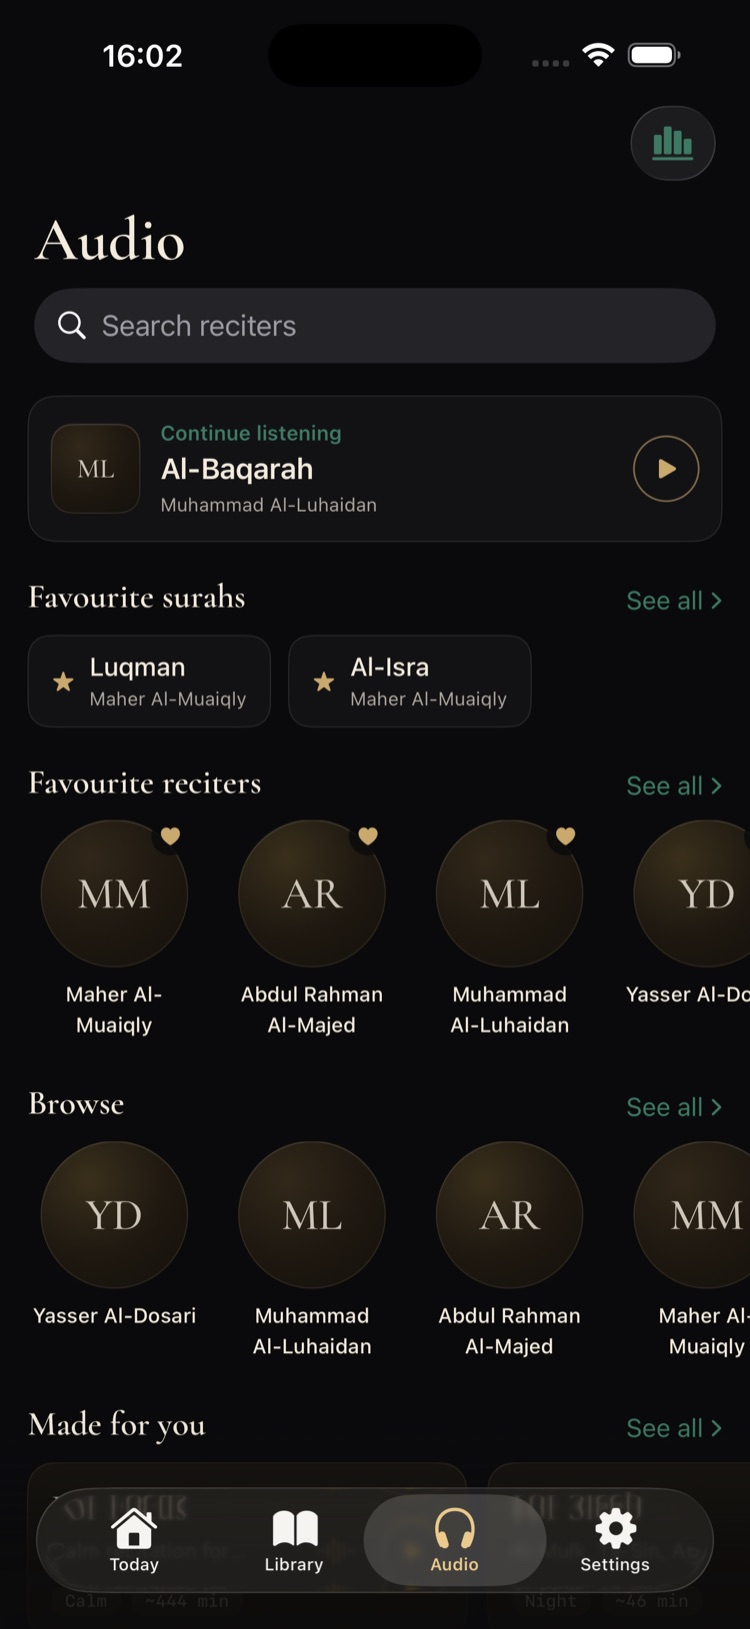
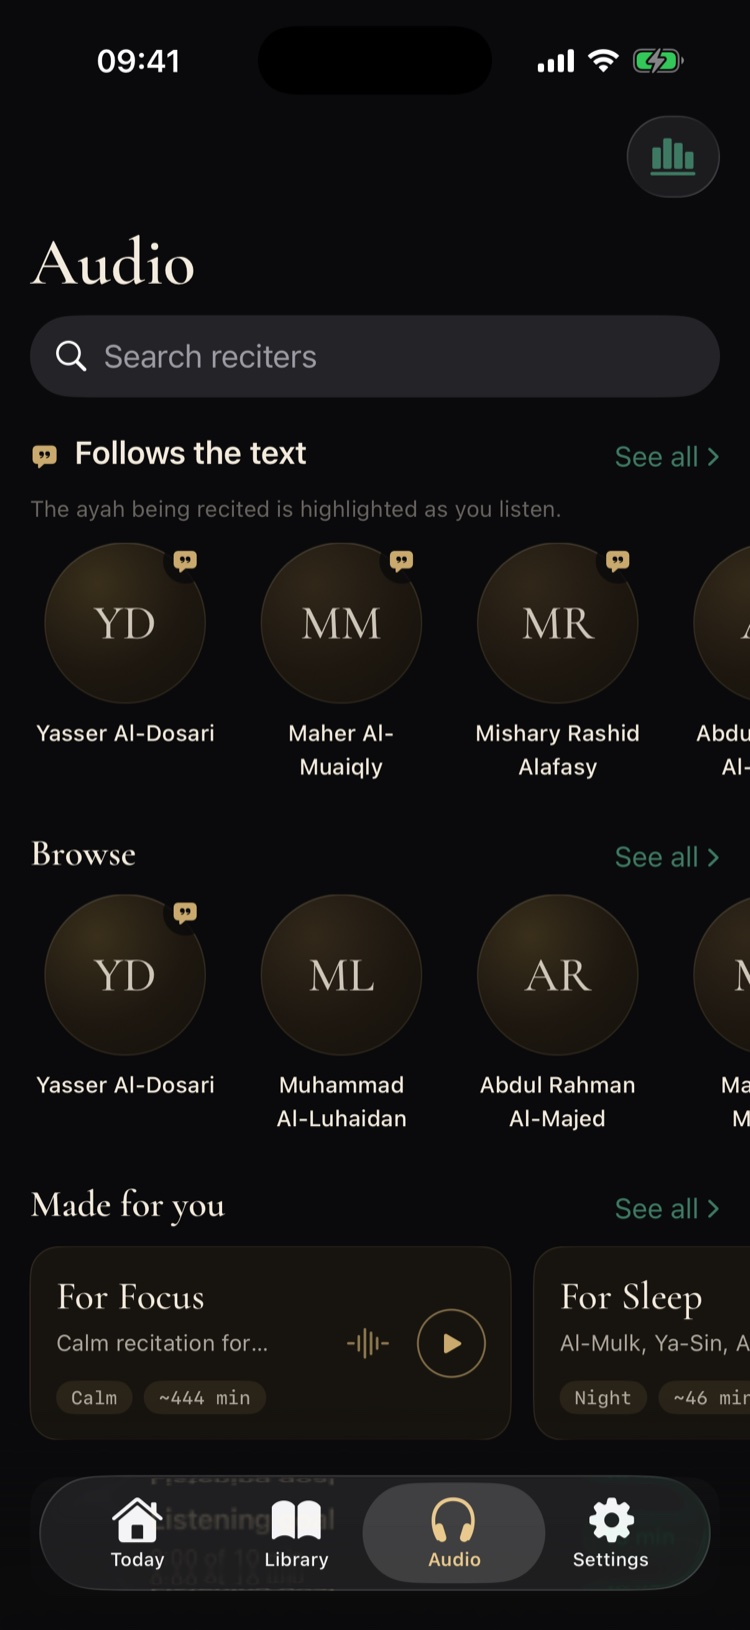
Site: App Store instead of TestFlight, karaoke, Instagram, honest privacy
The site still pitched a private TestFlight beta while the app has been
live on the App Store. Every TestFlight CTA (nav on all three pages,
hero, support contacts) now points at the store listing, the hero badge
reads "Free on the App Store", and the hero's second button became
@hafiz.ios on Instagram — also added to the footer and the support
contact list.

Audio copy now mentions ayah-synced highlighting that follows the
recitation ("Follows the text" chip), matching the feature that shipped.
All ten screenshots (five screens × light/dark) are retaken on the
current build: the player finally shows karaoke highlighting mid-surah,
Today shows the quiz and Qur'an map cards, Audio shows the
"Follows the text" shelf.

Privacy page catches up with reality in both languages: iCloud sync is
live (not hypothetical), and the anonymous TelemetryDeck usage
analytics with a hashed identifier and an in-app opt-out is disclosed.

diff --git a/js/i18n.js b/js/i18n.js
@@ -11,15 +11,17 @@ window.I18N = {
 
     // nav & shared
     'nav.support': 'Поддержка',
-    'nav.testflight': 'Бета в TestFlight',
-    'cta.testflight': 'Присоединиться к TestFlight',
+    'nav.appstore': 'Скачать в App Store',
+    'cta.appstore': 'Скачать в App Store',
+    'cta.instagram': '@hafiz.ios',
     'cta.github': 'Смотреть на GitHub',
+    'foot.appstore': 'App Store',
 
     // hero
     'hero.eyebrow': 'Запоминание Корана · iPhone и iPad',
     'hero.h1': 'Спокойное приложение для запоминания Корана на iPhone и iPad.',
     'hero.lead': 'Для мусульман, которые хотят учить наизусть, повторять, слушать и держать ежедневный ритм с Кораном — без рекламы, шума и давления.',
-    'hero.beta': 'Сейчас закрытая бета · iOS и iPadOS',
+    'hero.beta': 'Бесплатно в App Store · iOS и iPadOS',
 
     // features
     'features.eyebrow': 'Ежедневная практика',
@@ -29,7 +31,7 @@ window.I18N = {
     'f2.k': 'Недавнее повторение', 'f2.t': 'Сабки', 'f2.p': 'Держите свежим то, что выучили недавно, — структурное интервальное повторение.',
     'f3.k': 'Долгая память', 'f3.t': 'Манзиль', 'f3.p': 'Повторяйте выученное раньше по системе — чтобы знание оставалось.',
     'f4.k': 'Чтение', 'f4.t': 'Мусхаф', 'f4.p': 'Читайте в чистом, сфокусированном виде мусхафа, созданном для ежедневного повторения.',
-    'f5.k': 'Прослушивание', 'f5.t': 'Аудио', 'f5.p': 'Слушайте, повторяйте и закрепляйте — с чтецами и спокойными фоновыми звуками.',
+    'f5.k': 'Прослушивание', 'f5.t': 'Аудио', 'f5.p': 'Слушайте с подсветкой аятов, повторяйте и закрепляйте — с чтецами и спокойными фоновыми звуками.',
     'f6.k': 'Домашний экран', 'f6.t': 'Виджеты', 'f6.p': 'Ваш хифз всегда на виду — прямо на домашнем экране.',
 
     // inside
@@ -40,11 +42,12 @@ window.I18N = {
     'b2.k': 'Мусхаф', 'b2.t': 'Сфокусированное чтение.',
     'b2.p': 'Поверхность для ежедневного чтения и повторения без отвлечений — страница, текст и ничего, что борется за внимание.',
     'b3.k': 'Аудио', 'b3.t': 'Слушайте, повторяйте, закрепляйте.',
-    'b3.p': 'Чтецы, плейлисты, фоновые звуки, таймер сна и быстрое прослушивание — для повторения в пути или спокойной минуты ночью.',
+    'b3.p': 'Чтецы с подсветкой аятов, которая следует за чтением, фоновые звуки, таймер сна и быстрое прослушивание — для повторения в пути или спокойной минуты ночью.',
     'b4.k': 'Виджеты', 'b4.t': 'Ваш хифз на домашнем экране.',
     'b4.p': 'Сабак, прогресс, аудио и напоминания об аятах — прямо на домашнем экране, чтобы следующий маленький шаг был в одном взгляде.',
     'chip.sabaq': 'Сабак', 'chip.sabqi': 'Сабки', 'chip.manzil': 'Манзиль', 'chip.hifz': 'Прогресс хифза',
     'chip.uthmani': 'Шрифт усмани', 'chip.pageview': 'Постранично', 'chip.continue': 'Продолжить чтение',
+    'chip.karaoke': 'Следует за текстом',
     'chip.reciters': 'Чтецы', 'chip.bg': 'Фоновые звуки', 'chip.sleep': 'Таймер сна',
     'chip.progress': 'Прогресс', 'chip.ayah': 'Напоминание об аяте',
 
@@ -92,15 +95,15 @@ window.I18N = {
     'sp.cardlead': 'Ничего не требуется. Небольшой вклад идёт на хостинг, сборы App Store и время, вложенное в Hafiz, — тихо и без навязывания.',
     'sp.touch': 'Связаться',
     'sp.h2c': 'Вопросы, отзывы <span class="gold serif">и баги.</span>',
-    'sp.leadc': 'Hafiz в закрытой бете — обратная связь определяет, что будет дальше. Напишите напрямую или присоединяйтесь к бете в TestFlight.',
+    'sp.leadc': 'Hafiz уже в App Store — обратная связь определяет, что будет дальше. Напишите напрямую или оставьте отзыв в App Store.',
     'sp.email': 'Почта',
-    'sp.beta': 'Закрытая бета · только iOS',
+    'sp.beta': 'Бесплатно · iOS и iPadOS',
 
     // privacy page
     'pr.eyebrow': 'Юридическое',
     'pr.h1': 'Политика <span class="gold serif">конфиденциальности.</span>',
     'pr.lead': 'Hafiz — приложение для запоминания Корана. Ваша приватность важна: Hafiz задуман приватным, спокойным и сфокусированным. Приложение не продаёт ваши данные, не показывает рекламу и не отслеживает вас в других приложениях и на сайтах.',
-    'pr.updated': 'Обновлено · 5 июля 2026',
+    'pr.updated': 'Обновлено · 27 июля 2026',
     'pr.s1h': 'Сбор данных',
     'pr.s1p1': 'Hafiz не собирает персональные данные пользователей.',
     'pr.s1p2': 'Приложению не нужны аккаунт, имя, адрес электронной почты, номер телефона или профиль.',
@@ -108,10 +111,11 @@ window.I18N = {
     'pr.s2p1': 'Hafiz может хранить на вашем устройстве прогресс заучивания, настройки, загруженное аудио, избранное и параметры чтения.',
     'pr.s2p2': 'Эти данные нужны только для работы приложения и сохранения вашего прогресса.',
     'pr.s3h': 'Синхронизация iCloud',
-    'pr.s3p1': 'Если в будущем будет включена синхронизация iCloud, данные приложения могут синхронизироваться через Apple iCloud с использованием вашего аккаунта Apple. Hafiz не получает и не хранит данные вашего Apple ID или аккаунта iCloud.',
+    'pr.s3p1': 'Hafiz может синхронизировать прогресс, планы и настройки через Apple iCloud с использованием вашего собственного аккаунта Apple — приватно, в вашей личной базе iCloud. Hafiz не получает и не хранит данные вашего Apple ID или аккаунта iCloud.',
     'pr.s4h': 'Покупки',
     'pr.s4p1': 'Добровольные покупки поддержки обрабатывает Apple через App Store. Hafiz не получает и не хранит данные вашей платёжной карты.',
     'pr.s5h': 'Аналитика и отслеживание',
+    'pr.s5p0': 'Hafiz использует анонимную, бережную к приватности аналитику использования (TelemetryDeck), чтобы понимать, какими функциями пользуются. Она опирается на хешированный идентификатор устройства — никогда не на имя, аккаунт, почту или рекламный ID — и отключается в настройках приложения.',
     'pr.s5p1': 'Hafiz не использует сторонние рекламные трекеры.',
     'pr.s5p2': 'Hafiz не отслеживает вас в других приложениях и на сайтах.',
     'pr.s5p3': 'Hafiz не продаёт и не передаёт ваши персональные данные.',

diff --git a/index.html b/index.html
@@ -35,7 +35,7 @@ try {
     <a href="#inside">Hafiz</a>
     <a href="https://github.com/abbosoktambayev/hafiz-showcase" target="_blank" rel="noopener">GitHub</a>
     <a href="/support/" data-i18n="nav.support">Support</a>
-    <a class="btn btn-gold btn-sm" href="https://testflight.apple.com/join/pdGghRVm" target="_blank" rel="noopener"><span data-lucide="send"></span> <span data-i18n="nav.testflight">Join TestFlight</span></a>
+    <a class="btn btn-gold btn-sm" href="https://apps.apple.com/app/id6779406556" target="_blank" rel="noopener"><span data-lucide="download"></span> <span data-i18n="nav.appstore">Get on the App Store</span></a>
     <button class="theme-toggle" type="button" aria-label="Switch appearance"><span class="moon" data-lucide="moon"></span><span class="sun" data-lucide="sun"></span></button>
     <button class="lang-toggle" type="button" aria-label="Switch language">RU</button>
   </div>
@@ -49,10 +49,10 @@ try {
   <h1 class="display reveal d1" data-i18n="hero.h1">A calm Quran memorization app for iPhone &amp; iPad.</h1>
   <p class="lead hero-sub reveal d2" data-i18n="hero.lead">Built for Muslims who want to memorize, revise, listen, and stay consistent with the Qur'an — without ads, noise, or pressure.</p>
   <div class="cta reveal d3">
-    <a class="btn btn-gold" href="https://testflight.apple.com/join/pdGghRVm" target="_blank" rel="noopener"><span data-lucide="send"></span> <span data-i18n="cta.testflight">Join TestFlight</span></a>
-    <a class="btn btn-ghost" href="https://github.com/abbosoktambayev/hafiz-showcase" target="_blank" rel="noopener"><span data-lucide="github"></span> <span data-i18n="cta.github">View on GitHub</span></a>
+    <a class="btn btn-gold" href="https://apps.apple.com/app/id6779406556" target="_blank" rel="noopener"><span data-lucide="download"></span> <span data-i18n="cta.appstore">Download on the App Store</span></a>
+    <a class="btn btn-ghost" href="https://www.instagram.com/hafiz.ios" target="_blank" rel="noopener"><span data-lucide="instagram"></span> <span data-i18n="cta.instagram">@hafiz.ios</span></a>
   </div>
-  <p class="beta-note reveal d3"><span class="beta-dot"></span> <span data-i18n="hero.beta">Currently in private beta · iOS &amp; iPadOS</span></p>
+  <p class="beta-note reveal d3"><span class="beta-dot"></span> <span data-i18n="hero.beta">Free on the App Store · iOS &amp; iPadOS</span></p>
 
   <div class="hero-stage reveal d3">
     <div class="device side l float">
@@ -104,7 +104,7 @@ try {
       <div class="fic"><span data-lucide="headphones"></span></div>
       <div class="k" data-i18n="f5.k">Listening</div>
       <h3 data-i18n="f5.t">Audio</h3>
-      <p data-i18n="f5.p">Listen, repeat, and revise with calm background sounds and reciters.</p>
+      <p data-i18n="f5.p">Listen with ayah-synced highlighting, repeat, and revise with calm background sounds.</p>
     </article>
     <article class="feature reveal d2">
       <div class="fic"><span data-lucide="layout-grid"></span></div>
@@ -157,8 +157,8 @@ try {
       <div class="block-copy">
         <div class="k" data-i18n="b3.k">Audio</div>
         <h3 data-i18n="b3.t">Listen, repeat, revise.</h3>
-        <p data-i18n="b3.p">Reciters, playlists, background sounds, a sleep timer, and quick listening — for revision on the move or a calm moment at night.</p>
-        <ul class="mini-list"><li data-i18n="chip.reciters">Reciters</li><li data-i18n="chip.bg">Background sounds</li><li data-i18n="chip.sleep">Sleep timer</li></ul>
+        <p data-i18n="b3.p">Reciters with ayah-synced highlighting that follows the recitation, background sounds, a sleep timer, and quick listening — for revision on the move or a calm moment at night.</p>
+        <ul class="mini-list"><li data-i18n="chip.karaoke">Follows the text</li><li data-i18n="chip.reciters">Reciters</li><li data-i18n="chip.bg">Background sounds</li><li data-i18n="chip.sleep">Sleep timer</li></ul>
       </div>
     </div>
 
@@ -290,6 +290,8 @@ try {
     </div>
     <div class="footer-links">
       <a href="#inside">Hafiz</a>
+      <a href="https://apps.apple.com/app/id6779406556" target="_blank" rel="noopener" data-i18n="foot.appstore">App Store</a>
+      <a href="https://www.instagram.com/hafiz.ios" target="_blank" rel="noopener">Instagram</a>
       <a href="/privacy/" data-i18n="foot.privacy">Privacy Policy</a>
       <a href="/support/" data-i18n="nav.support">Support</a>
       <a href="https://github.com/abbosoktambayev/hafiz-showcase" target="_blank" rel="noopener">GitHub</a>

diff --git a/support/index.html b/support/index.html
@@ -35,7 +35,7 @@ try {
     <a href="/#inside">Hafiz</a>
     <a href="https://github.com/abbosoktambayev/hafiz-showcase" target="_blank" rel="noopener">GitHub</a>
     <a href="/support/" data-i18n="nav.support">Support</a>
-    <a class="btn btn-gold btn-sm" href="https://testflight.apple.com/join/pdGghRVm" target="_blank" rel="noopener"><span data-lucide="send"></span> <span data-i18n="nav.testflight">Join TestFlight</span></a>
+    <a class="btn btn-gold btn-sm" href="https://apps.apple.com/app/id6779406556" target="_blank" rel="noopener"><span data-lucide="download"></span> <span data-i18n="nav.appstore">Get on the App Store</span></a>
     <button class="theme-toggle" type="button" aria-label="Switch appearance"><span class="moon" data-lucide="moon"></span><span class="sun" data-lucide="sun"></span></button>
     <button class="lang-toggle" type="button" aria-label="Switch language">RU</button>
   </div>
@@ -72,7 +72,7 @@ try {
   <div class="section-head reveal">
     <p class="eyebrow" data-i18n="sp.touch">Get in touch</p>
     <h2 class="display" data-i18n="sp.h2c">Questions, feedback, <span class="gold serif">or bugs.</span></h2>
-    <p class="lead" data-i18n="sp.leadc">Hafiz is in private beta — feedback shapes what comes next. Reach out directly, or join the beta on TestFlight.</p>
+    <p class="lead" data-i18n="sp.leadc">Hafiz is live on the App Store — feedback shapes what comes next. Reach out directly, or leave a review on the App Store.</p>
   </div>
 
   <div class="contact-list reveal d1">
@@ -92,11 +92,19 @@ try {
       </span>
       <span class="carrow"><span data-lucide="arrow-up-right"></span></span>
     </a>
-    <a class="contact-row" href="https://testflight.apple.com/join/pdGghRVm" target="_blank" rel="noopener">
-      <span class="cic"><span data-lucide="send"></span></span>
+    <a class="contact-row" href="https://www.instagram.com/hafiz.ios" target="_blank" rel="noopener">
+      <span class="cic"><span data-lucide="instagram"></span></span>
       <span class="ctext">
-        <span class="ctitle" data-i18n="cta.testflight">Join TestFlight</span>
-        <span class="csub" data-i18n="sp.beta">Private beta · iOS only</span>
+        <span class="ctitle">Instagram</span>
+        <span class="csub">@hafiz.ios</span>
+      </span>
+      <span class="carrow"><span data-lucide="arrow-up-right"></span></span>
+    </a>
+    <a class="contact-row" href="https://apps.apple.com/app/id6779406556" target="_blank" rel="noopener">
+      <span class="cic"><span data-lucide="download"></span></span>
+      <span class="ctext">
+        <span class="ctitle" data-i18n="cta.appstore">Download on the App Store</span>
+        <span class="csub" data-i18n="sp.beta">Free · iOS &amp; iPadOS</span>
       </span>
       <span class="carrow"><span data-lucide="arrow-up-right"></span></span>
     </a>

diff --git a/privacy/index.html b/privacy/index.html
@@ -35,7 +35,7 @@ try {
     <a href="/#inside">Hafiz</a>
     <a href="https://github.com/abbosoktambayev/hafiz-showcase" target="_blank" rel="noopener">GitHub</a>
     <a href="/support/" data-i18n="nav.support">Support</a>
-    <a class="btn btn-gold btn-sm" href="https://testflight.apple.com/join/pdGghRVm" target="_blank" rel="noopener"><span data-lucide="send"></span> <span data-i18n="nav.testflight">Join TestFlight</span></a>
+    <a class="btn btn-gold btn-sm" href="https://apps.apple.com/app/id6779406556" target="_blank" rel="noopener"><span data-lucide="download"></span> <span data-i18n="nav.appstore">Get on the App Store</span></a>
     <button class="theme-toggle" type="button" aria-label="Switch appearance"><span class="moon" data-lucide="moon"></span><span class="sun" data-lucide="sun"></span></button>
     <button class="lang-toggle" type="button" aria-label="Switch language">RU</button>
   </div>
@@ -48,7 +48,7 @@ try {
     <p class="eyebrow" data-i18n="pr.eyebrow">Legal</p>
     <h1 class="display" data-i18n="pr.h1">Privacy <span class="gold serif">Policy.</span></h1>
     <p class="lead" data-i18n="pr.lead">Hafiz is a Quran memorization app for iPhone. Your privacy matters — Hafiz is designed to be private, calm, and focused. The app does not sell your data, does not show ads, and does not track you across apps or websites.</p>
-    <p class="updated" data-i18n="pr.updated">Last updated · July 5, 2026</p>
+    <p class="updated" data-i18n="pr.updated">Last updated · July 27, 2026</p>
   </div>
 
   <div class="legal reveal d1">
@@ -66,7 +66,7 @@ try {
 
     <section>
       <h2 data-i18n="pr.s3h">iCloud sync</h2>
-      <p data-i18n="pr.s3p1">If iCloud sync is enabled in the future, your app data may be synced through Apple iCloud using your Apple account. Hafiz does not receive or manage your Apple ID or iCloud account information.</p>
+      <p data-i18n="pr.s3p1">Hafiz can sync your progress, plans, and settings through Apple iCloud using your own Apple account, privately, in your personal iCloud database. Hafiz does not receive or manage your Apple ID or iCloud account information.</p>
     </section>
 
     <section>
@@ -76,6 +76,7 @@ try {
 
     <section>
       <h2 data-i18n="pr.s5h">Analytics and tracking</h2>
+      <p data-i18n="pr.s5p0">Hafiz uses anonymous, privacy-first usage analytics (TelemetryDeck) to understand which features are used. It relies on a hashed device identifier — never a name, account, email, or advertising ID — and can be turned off in the app's settings.</p>
       <p data-i18n="pr.s5p1">Hafiz does not use third-party advertising trackers.</p>
       <p data-i18n="pr.s5p2">Hafiz does not track you across apps or websites.</p>
       <p data-i18n="pr.s5p3">Hafiz does not sell or share your personal data.</p>
